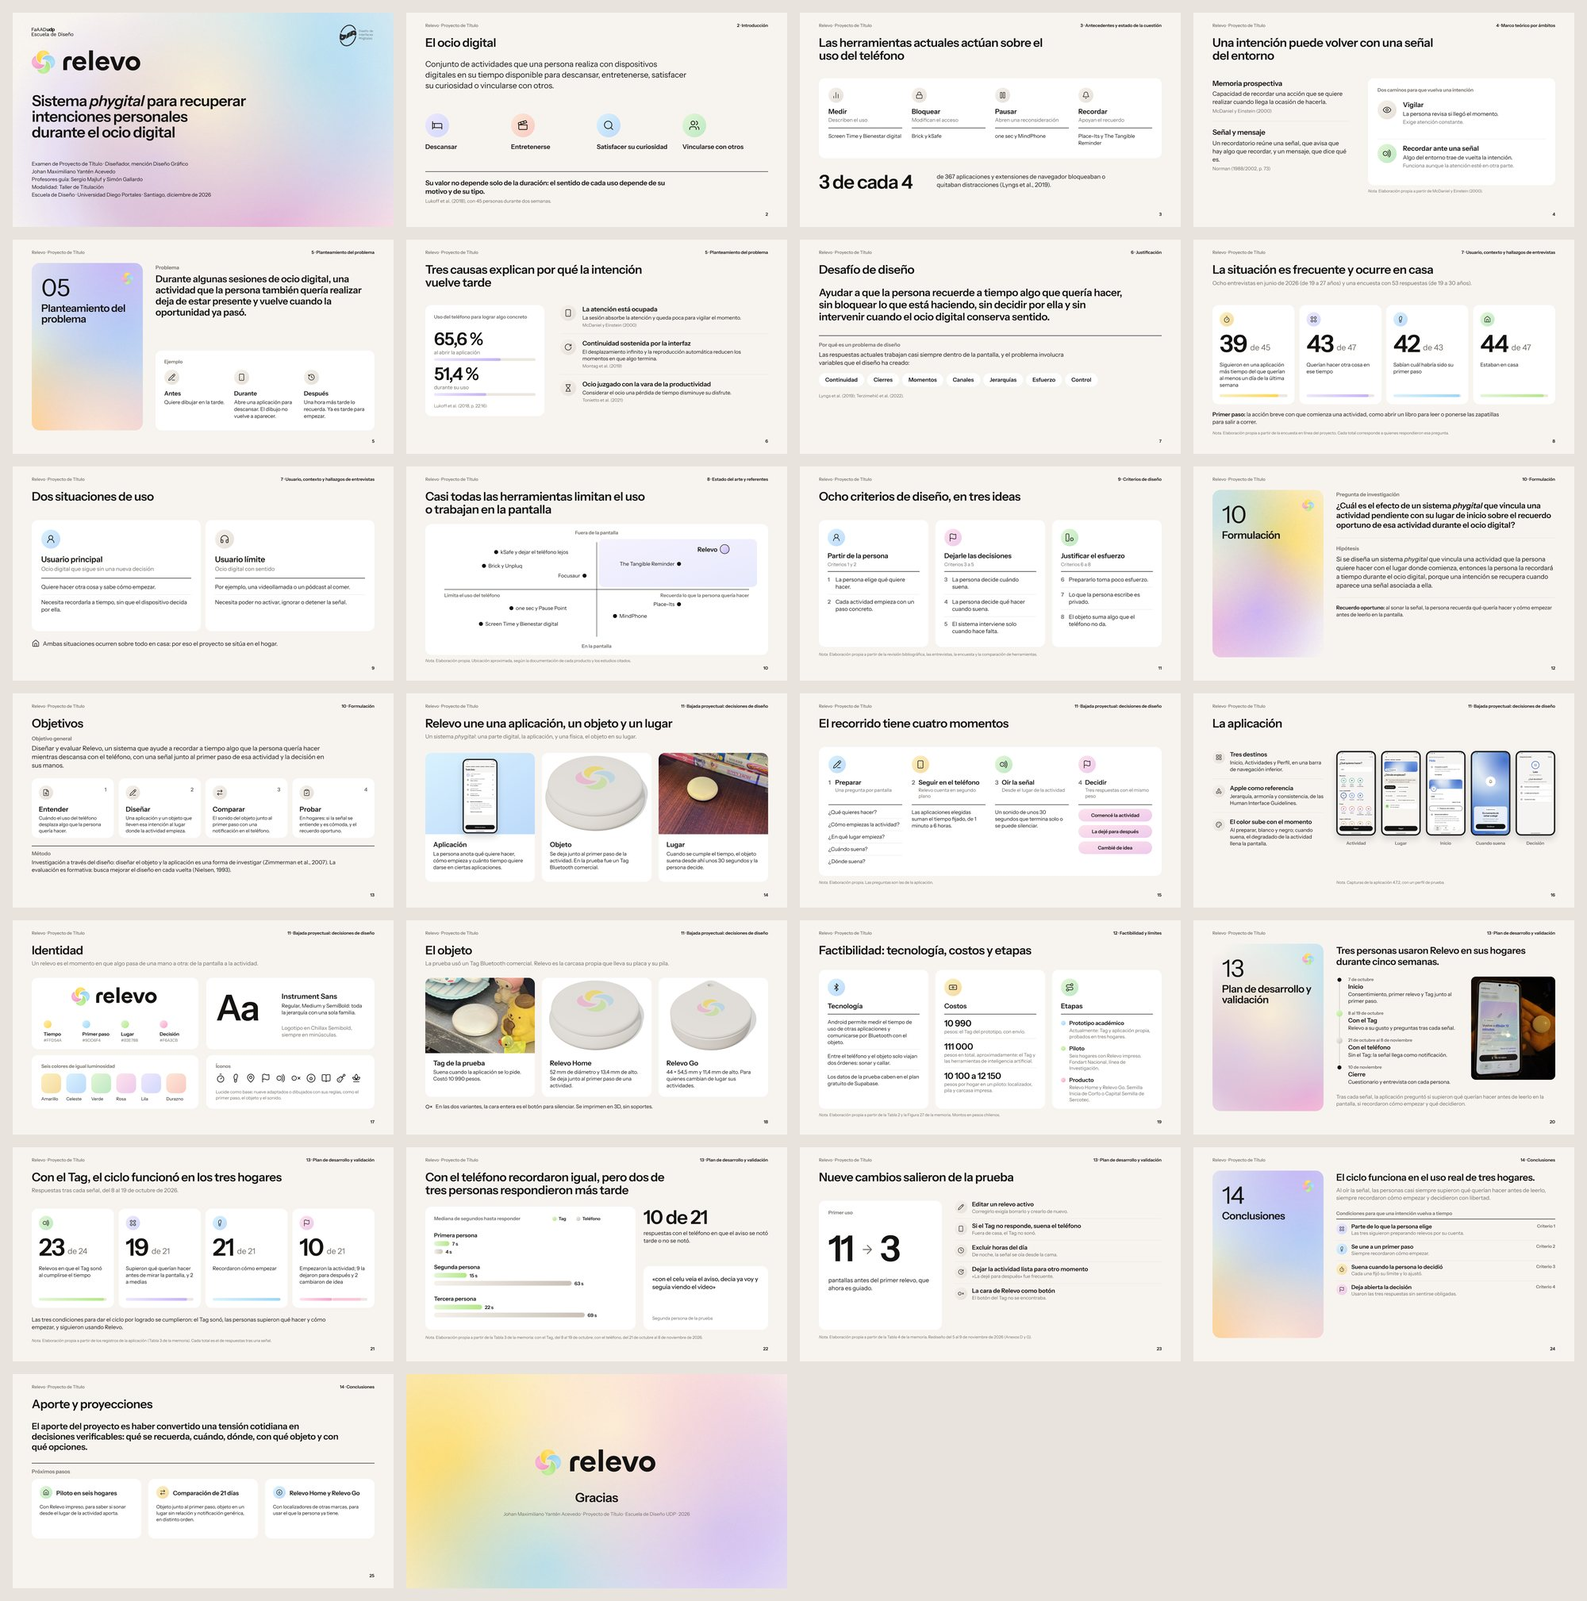
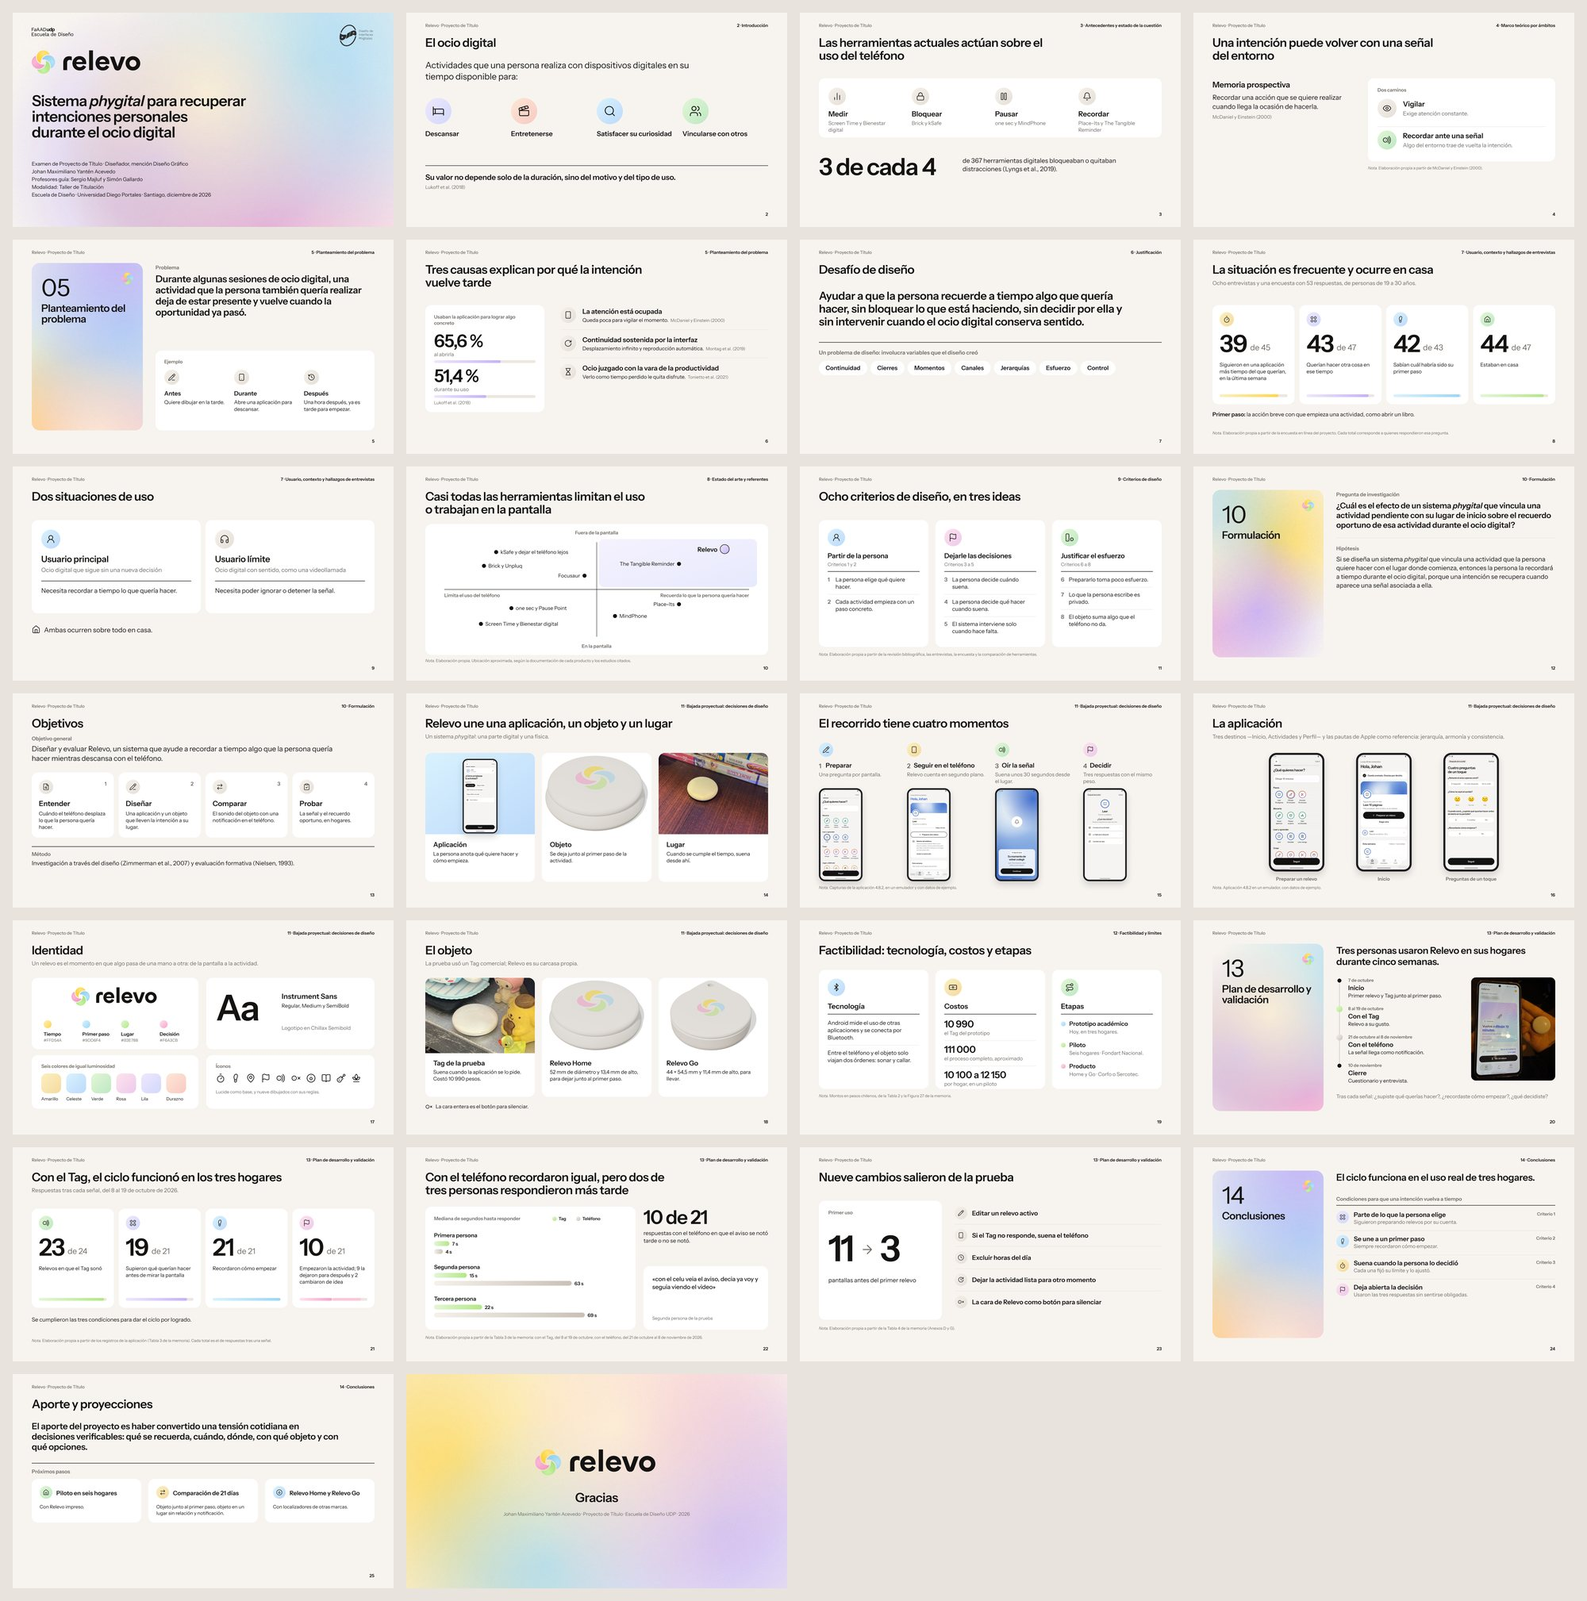
Presentación del examen: menos texto y la app 4.8.2
Texto recortado en 21 láminas, con lo que explica en las notas.
Las láminas 14 a 16 muestran las capturas y un GIF de la 4.8.2 que
subió el autor; el GIF lleva un cuadro fijo debajo para el PDF.
Por hacer suma corregir «Editar» antes de mostrar la 4.8.2.

Claude-Session: https://claude.ai/code/session_017fWqsUqpuXcZSRww9d5RsB

diff --git a/10_recursos_visuales/47_presentacion-examen-2026-11-23.md b/10_recursos_visuales/47_presentacion-examen-2026-11-23.md
@@ -3,7 +3,7 @@
 **Archivo:** [presentación en Figma Slides](https://www.figma.com/slides/IJm9Esfx6hYO8zbC2poxv1), en la cuenta del autor.
 **Duración:** 8 minutos, según las notas del orador, en 26 láminas.
 **Fuente:** el [borrador v8 de la memoria](../08_memoria/borrador-memoria-v8-2026-11-21.md) y su [versión diagramada](../08_memoria/memoria-1920x1080/memoria-relevo-v8-1920x1080.pdf), del 21 de noviembre. Todas las cifras, las citas y los textos literales salen de ahí.
-**Estado:** primera versión para el examen, pendiente de la revisión del autor. Las 26 láminas se pueden ver juntas en la [hoja de revisión](presentacion-examen/laminas-2026-11-23.jpg).
+**Estado:** segunda versión para el examen, con menos texto y con capturas y un GIF de la app 4.8.2. Falta la revisión del autor. Las 26 láminas se pueden ver juntas en la [hoja de revisión](presentacion-examen/laminas-2026-11-23.jpg).
 
 ## Estructura
 
@@ -14,7 +14,7 @@ Las láminas siguen el orden de la memoria, del capítulo 2 al 14, y cada una di
 | 1 | Portada | «Sistema *phygital* para recuperar intenciones personales durante el ocio digital» | El logotipo, el título de la memoria y los datos de la portada, sobre el aura de portada. | Portada | 0:00 |
 | 2 | Ocio digital | «El ocio digital» | La definición, cuatro propósitos con su ícono y el sentido según el motivo y el tipo de uso (Lukoff et al., 2018). | 2 | 0:10 |
 | 3 | Antecedentes | «Las herramientas actuales actúan sobre el uso del teléfono» | Medir, bloquear, pausar y recordar, con ejemplos, y 3 de cada 4 entre 367 herramientas (Lyngs et al., 2019). | 3 | 0:30 |
-| 4 | Marco teórico | «Una intención puede volver con una señal del entorno» | Memoria prospectiva, señal y mensaje, y los dos caminos de la Figura 1. | 4 | 0:50 |
+| 4 | Marco teórico | «Una intención puede volver con una señal del entorno» | Memoria prospectiva y los dos caminos de la Figura 1. | 4 | 0:50 |
 | 5 | Problema | Apertura del capítulo 5 y el problema, literal | El ejemplo del dibujo: antes, durante y después (Figura 4). | 5 | 1:10 |
 | 6 | Causas | «Tres causas explican por qué la intención vuelve tarde» | 65,6 % y 51,4 % (Lukoff et al., 2018) y las tres causas de la Figura 5. | 5 | 1:30 |
 | 7 | Desafío | «Desafío de diseño» | El desafío, literal, y las siete variables que el diseño ha creado, de la Justificación. | 5 y 6 | 1:50 |
@@ -22,11 +22,11 @@ Las láminas siguen el orden de la memoria, del capítulo 2 al 14, y cada una di
 | 9 | Situaciones de uso | «Dos situaciones de uso» | El usuario principal, el usuario límite y el hogar como contexto. | 7 | 2:30 |
 | 10 | Estado del arte | «Casi todas las herramientas limitan el uso o trabajan en la pantalla» | El mapa de la Figura 11, con el cuadrante de Relevo marcado. | 8 | 2:45 |
 | 11 | Criterios | «Ocho criterios de diseño, en tres ideas» | Los ocho criterios de la Figura 12. | 9 | 3:05 |
-| 12 | Formulación | Apertura del capítulo 10, la pregunta y la hipótesis, literales | Y qué es el recuerdo oportuno. | 10 | 3:25 |
+| 12 | Formulación | Apertura del capítulo 10 | La pregunta y la hipótesis, literales. | 10 | 3:25 |
 | 13 | Objetivos | «Objetivos» | El objetivo general, los cuatro específicos y el método. | 10 | 3:50 |
-| 14 | Relevo | «Relevo une una aplicación, un objeto y un lugar» | Una captura de la app, Relevo Home y el Tag junto a unos mangas. | 11 | 4:05 |
-| 15 | Recorrido | «El recorrido tiene cuatro momentos» | Preparar, seguir en el teléfono, oír la señal y decidir (Figura 16). | 11 | 4:25 |
-| 16 | Aplicación | «La aplicación» | Tres decisiones y cinco capturas de la 4.7.2. | 11 | 4:45 |
+| 14 | Relevo | «Relevo une una aplicación, un objeto y un lugar» | Una captura de la app 4.8.2, Relevo Home y el Tag junto a unos mangas. | 11 | 4:05 |
+| 15 | Recorrido | «El recorrido tiene cuatro momentos» | Los cuatro momentos de la Figura 16, cada uno con su pantalla de la app 4.8.2. | 11 | 4:25 |
+| 16 | Aplicación | «La aplicación» | Un GIF de cómo se prepara un relevo y dos pantallas de la 4.8.2: Inicio y las preguntas de un toque. | 11 | 4:45 |
 | 17 | Identidad | «Identidad» | El logo y sus cuatro papeles, Instrument Sans, la paleta y los íconos nuevos. | 11 | 5:00 |
 | 18 | Objeto | «El objeto» | El Tag de la prueba, Relevo Home y Relevo Go, con sus medidas. | 11 | 5:15 |
 | 19 | Factibilidad | «Factibilidad: tecnología, costos y etapas» | Android y Bluetooth, los montos de la Tabla 2 y las etapas y fondos de la Figura 27. | 12 | 5:30 |
@@ -45,7 +45,8 @@ Las láminas siguen el orden de la memoria, del capítulo 2 al 14, y cada una di
 - **Lo que hay en la memoria:** las láminas muestran lo que se hizo y lo que se encontró. El alcance de la prueba no va en pantalla: queda en las notas de la lámina 24, para responder si la comisión pregunta.
 - **Íconos nuevos:** los de Lucide que usa la app desde la 4.8.2 ([documento 46](46_iconos-desde-lucide-2026-11-22.md)), con trazo de 1,6 en la retícula de 24, sobre un círculo con el degradado de su color. Solo uno no está en la app: el billete de Lucide 1.70.0 («banknote»), para los costos.
 - **Degradados sutiles de la memoria:** los mismos tonos de [`construir-figuras.py`](../08_memoria/figuras/v8/construir-figuras.py): dos tonos vecinos a 135° en las superficies y, en las barras y los puntos, del tono claro al intenso. Cada color conserva su papel: amarillo para el tiempo, celeste para el primer paso, verde para el lugar y el sonido, y rosa para la decisión. El neutro queda para lo que no es de Relevo, como las otras herramientas o el teléfono en la comparación.
-- **Imágenes:** las auras de la memoria; capturas de la app 4.7.2 con un perfil de prueba, dos de ellas subidas ahora (Inicio y la pantalla cuando suena); los modelos 3D de Relevo, y tres fotos de la prueba que ya están en la Figura 28.
+- **Poco texto:** cada lámina deja un título y lo esencial: una cifra, una frase o una figura. Lo que explica o matiza, como la señal y el mensaje de Norman, la definición de recuerdo oportuno, el plan gratuito de Supabase o la impresión 3D sin soportes, pasó a las notas del orador.
+- **Imágenes:** las auras de la memoria; siete capturas y un GIF de la app 4.8.2, de las [capturas que grabó el autor](../06_desarrollo_y_factibilidad/app-android/capturas/interfaz-4.8.2/README.md) en un emulador con datos de ejemplo; los modelos 3D de Relevo, y tres fotos de la prueba que ya están en la Figura 28. El GIF lleva debajo uno de sus cuadros, fijo, para que en el PDF y en las miniaturas no se vea el teléfono vacío.
 - **Tiempo:** cada nota del orador empieza con el minuto y la duración de su lámina, de 10 a 25 segundos, y suman 8 minutos. Las notas complementan la lámina: no repiten lo que dice.
 
 ## Pendiente
@@ -54,11 +55,19 @@ Las láminas siguen el orden de la memoria, del capítulo 2 al 14, y cada una di
 - **Duración del examen:** Por hacer anotaba una presentación de 15 minutos; para esta versión, el autor pidió 10 como máximo e idealmente 8. Conviene confirmarlo con los profesores.
 - **Fotos de la prueba** (láminas 14, 18 y 20): confirmar por escrito que las personas autorizan mostrarlas (D-140 sigue abierta).
 - **Portada:** dice «Simón Gallardo», como la memoria; sus notas en el PDF del Pase van firmadas «Manuel Gallardo» ([Por hacer, punto 2](../00_gobernanza/por-hacer.md#lo-que-queda-en-orden-al-22-de-noviembre-de-2026)).
-- **Capturas:** son de la 4.7.2, la versión de la prueba y de la memoria. Si el autor decide entregar la 4.8.2, se pueden cambiar por capturas con los íconos de Lucide.
+- **Versión de la app:** las láminas muestran la 4.8.2, con los íconos de Lucide; la memoria muestra la 4.7.2. Si la entrega sigue con la 4.7.2 ([tarea 17](../00_gobernanza/por-hacer.md#17-íconos-desde-lucide-revisar-y-llevar-a-la-memoria)), conviene decidir cuál mostrar en el examen.
+- **«Editar» un relevo activo:** al grabar las capturas se encontró que en la 4.8.2 vuelve a Inicio en vez de abrir la edición ([capturas de la 4.8.2](../06_desarrollo_y_factibilidad/app-android/capturas/interfaz-4.8.2/README.md#un-error-encontrado-al-grabar)). La lámina 23 nombra ese cambio, así que conviene corregirlo antes del examen.
+- **GIF:** se reproduce en el modo presentación de Figma; conviene comprobarlo en el computador del examen.
 - **Textos literales:** si antes del 2 de diciembre cambia la pregunta, la hipótesis o alguna cifra de la memoria, hay que cambiar las láminas que la copian (5, 7, 12, 21, 22 y 25).
 - **Lo que no tiene lámina propia:** el flujo técnico (Figura 26) y el video de respaldo del ciclo, que pide la tarea 7.
 
 ## Registro de cambios (disclaimer)
+
+### 2026-11-23 — Menos texto y la app 4.8.2
+
+- **Qué cambió:** se recortó el texto de 21 láminas: definiciones más cortas, una línea por idea y lo que explica en las notas. Las láminas 14 a 16 muestran la app 4.8.2: la 15, una pantalla por momento del recorrido, y la 16, un GIF de cómo se prepara un relevo. En la lámina 7, el rótulo dice ahora «Un problema de diseño: involucra variables que el diseño creó». La hoja de revisión se rehízo.
+- **Cómo estaba antes:** había más texto por lámina: el recorrido eran cuatro listas, y la aplicación, cinco capturas de la 4.7.2 con tres bloques de texto. El rótulo de la lámina 7 decía «Es un problema de diseño: sus variables las creó el diseño».
+- **Por qué:** el autor dijo que las láminas iban bien, pero pidió reducir un poco más el texto, y avisó que había subido capturas y GIF reales de la app.
 
 ### 2026-11-23 — Creación
 

diff --git a/00_gobernanza/registro-de-pedidos-a-la-ia.md b/00_gobernanza/registro-de-pedidos-a-la-ia.md
@@ -376,6 +376,7 @@
 | 22 nov. | Encargo | Hacer la presentación del proyecto en Figma: 10 minutos como máximo, idealmente 8, con todo lo relevante de la memoria, para una comisión que no conoce el proyecto. Nivel Apple, sin palabrería, directa y fácil de entender, diseñada como la memoria y la app, con la gráfica de Relevo, y sin pedir permiso para los cambios. | Una primera versión de 19 láminas en Figma Slides, que el autor corrigió el mismo día (fila siguiente). | — |
 | 22 nov. | Corrección | La presentación era muy crítica: debe hablar de lo que hay en la memoria, no de lo que falta. Los títulos y las bajadas eran demasiado poéticos; pidió títulos directos, los íconos nuevos, los degradados sutiles de la memoria, menos texto, un tono directo y formal, y el orden de la memoria, para que se sienta como una narrativa, «no literalmente». | La [presentación del examen](../10_recursos_visuales/47_presentacion-examen-2026-11-23.md), rehecha en 26 láminas en el orden de la memoria v8, con el diseño de la memoria diagramada, los íconos de Lucide de la app 4.8.2, sus degradados y notas para 8 minutos. Títulos que dicen lo que muestra cada lámina; el problema, la pregunta, la hipótesis y el aporte, literales. El alcance de la prueba queda en las notas, no en pantalla. | Pendiente de la revisión del autor |
 | 23 nov. | Encargo | Con la versión más reciente de la app, la de los íconos nuevos, hacer un GIF de cada pantalla e interacción —la primera vez, crear un relevo, editar el perfil, cuando suena, todo— y capturas de todas las pantallas; usar su nombre, Johan, en las grabaciones. | [10 GIF, 10 MP4 y 110 capturas de la 4.8.2](../06_desarrollo_y_factibilidad/app-android/capturas/interfaz-4.8.2/README.md), grabados en una copia de prueba sin conexión. Al grabar se encontró que «Editar» un relevo activo vuelve a Inicio en vez de abrir la edición; la causa está descrita y la corrección queda pendiente | — |
+| 23 nov. | Corrección | Avisó que subió capturas y GIF reales de la app, que podrían servir. Las láminas le parecieron bien, pero reduciría un poco más el texto: «va por buen camino». | La [presentación del examen](../10_recursos_visuales/47_presentacion-examen-2026-11-23.md), con el texto recortado en 21 láminas y lo que explica en las notas. Las láminas 14 a 16 muestran la app 4.8.2: una pantalla por momento del recorrido y un GIF de cómo se prepara un relevo, con un cuadro fijo debajo para el PDF. Se anotó como pendiente el error de «Editar» que encontró la grabación, porque la lámina 23 nombra ese cambio. | Pendiente de la revisión del autor |
 
 ## Lo que muestra el registro
 
@@ -386,6 +387,12 @@
 Los pedidos anteriores al 23 de septiembre están en el «Registro de prompts existentes» de la [trazabilidad](trazabilidad-uso-ia-2026-09-23.md).
 
 ## Registro de cambios (disclaimer)
+
+### 2026-11-23 — Menos texto en la presentación
+
+- **Qué cambió:** se registró la corrección de la presentación: menos texto y las capturas de la 4.8.2.
+- **Cómo estaba antes:** el último pedido era el encargo de los GIF y las capturas de la 4.8.2.
+- **Por qué:** regla de registrar cada pedido del autor el mismo día.
 
 ### 2026-11-23 — GIF y capturas de la 4.8.2
 

diff --git a/10_recursos_visuales/README.md b/10_recursos_visuales/README.md
@@ -83,7 +83,7 @@ El desafío visual no consiste en hacer que todas las partes se vean iguales. Co
 46. [Íconos que responden a lo que pide la app](44_iconos-desde-lo-que-pide-la-app-2026-11-06.md): inventario de los íconos que usa la app, cinco reglas y once íconos rehechos con su porqué (D-162), con su [imagen antes y después](iconos-2026-11-06/antes-y-despues.png).
 47. [Presentación de Relevo](45_presentacion-relevo-2026-11-12.md): veinticinco láminas en Figma Slides para 7 a 10 minutos, hechas con la marca desde la memoria del 10 de noviembre, con su estructura, sus decisiones y lo pendiente.
 48. [Íconos desde Lucide](46_iconos-desde-lucide-2026-11-22.md): desde la app 4.8, los íconos salen de Lucide. Son 109 tal cual, seis adaptados y tres propios con sus reglas, porque Lucide no los tiene; cómo funcionan los íconos de Lucide, cómo se eligió cada uno, su tamaño óptico medido con la prueba del desenfoque, propuestas de más íconos, con cosas cotidianas de Chile, y lo que arrastra el cambio (D-187). La fuente está en la [carpeta iconos-lucide](iconos-lucide/README.md).
-49. [Presentación del examen](47_presentacion-examen-2026-11-23.md): veintiséis láminas en Figma Slides para 8 minutos, en el orden de la memoria v8 y con su diseño, los íconos de Lucide y los degradados sutiles de la memoria, con su estructura, sus decisiones, lo pendiente y una [hoja de revisión](presentacion-examen/laminas-2026-11-23.jpg). Para el examen reemplaza a la del 12 de noviembre.
+49. [Presentación del examen](47_presentacion-examen-2026-11-23.md): veintiséis láminas en Figma Slides para 8 minutos, en el orden de la memoria v8 y con su diseño, los íconos de Lucide, los degradados sutiles de la memoria y capturas y un GIF de la app 4.8.2, con su estructura, sus decisiones, lo pendiente y una [hoja de revisión](presentacion-examen/laminas-2026-11-23.jpg). Para el examen reemplaza a la del 12 de noviembre.
 19. [Referencias](referencias.md)
 20. [Registro del reinicio visual](registro-del-reinicio.md)
 
@@ -113,6 +113,12 @@ El estado anterior se puede consultar en la etiqueta Git `pre-reinicio-visual-20
 ---
 
 ## Registro de cambios (disclaimer)
+
+### 2026-11-23 — Presentación con la app 4.8.2
+
+- **Qué cambió:** la entrada 49 menciona las capturas y el GIF de la app 4.8.2.
+- **Cómo estaba antes:** no las mencionaba, porque la presentación usaba capturas de la 4.7.2.
+- **Por qué:** el autor subió capturas y GIF de la 4.8.2 y pidió menos texto en las láminas.
 
 ### 2026-11-23 — Presentación del examen
 

diff --git a/00_gobernanza/por-hacer.md b/00_gobernanza/por-hacer.md
@@ -253,6 +253,7 @@ Según el autor, la semana solo con notificaciones ya empezó. En Supabase se ve
   Son los puntos que la comisión de julio no entendió. El 22 de noviembre el autor pidió una presentación de 10 minutos como máximo, idealmente 8, desde la memoria: la [presentación del 23 de noviembre](../10_recursos_visuales/47_presentacion-examen-2026-11-23.md), en Figma Slides, tiene 26 láminas en el orden de la memoria v8 y notas para 8 minutos. Muestra el objeto, el hogar, el recorrido de la persona y la evidencia; el flujo técnico no tiene lámina propia, y el alcance de la prueba queda en las notas, como pidió el autor. Falta su revisión y confirmar con los profesores la duración. Si cambia la pregunta, se cambia la lámina 12, que la muestra literal. La del 12 de noviembre queda como registro.
 - [ ] Preparar respuestas para unos 30 minutos de preguntas: por qué un objeto y no una notificación, qué se probó y qué no, quiénes fueron las tres personas de la prueba y cómo llegaron, por qué el objeto queda como propuesta, el uso de IA y la factibilidad. Sumar las nueve preguntas del simulacro de comisión (tarea 12, H) y una sobre iOS, que el profesor Gallardo marcó en el PDF del Pase.
 - [ ] Un video de respaldo del ciclo completo, por si falla la demostración.
+- [ ] Si en el examen se muestra la 4.8.2, corregir antes «Editar» un relevo activo, que vuelve a Inicio en vez de abrir la edición ([capturas de la 4.8.2](../06_desarrollo_y_factibilidad/app-android/capturas/interfaz-4.8.2/README.md#un-error-encontrado-al-grabar)). La lámina 23 de la presentación nombra ese cambio.
 - [ ] Ensayar con cronómetro: ajustarse al tiempo es parte de la nota.
 
 ## 8. Memoria: datos por confirmar, portada y entrega
@@ -1000,6 +1001,12 @@ Cada uno tiene su texto propuesto en la [respuesta a los profesores](../08_memor
 - Conservar el aviso de licencia de Lucide con los SVG y dentro del APK.
 
 ## Registro de cambios (disclaimer)
+
+### 2026-11-23 — «Editar» antes del examen
+
+- **Qué cambió:** la tarea 7 suma corregir «Editar» un relevo activo en la 4.8.2 antes de mostrarla.
+- **Cómo estaba antes:** el error estaba descrito en las capturas de la 4.8.2, pero no en Por hacer.
+- **Por qué:** la presentación ahora muestra la 4.8.2 y nombra ese cambio en la lámina 23.
 
 ### 2026-11-23 — Presentación del examen
 
